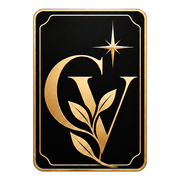
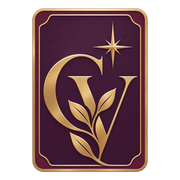
feat: atualizar marca visual do Cartada Viva

diff --git a/frontend/src/components/consultoria/ConsultoriaPages.tsx b/frontend/src/components/consultoria/ConsultoriaPages.tsx
@@ -30,7 +30,7 @@ export function ConsultoriaHome({ routes = previewRoutes }: { routes?: Consultor
       <SectionHeading eyebrow="Acompanhamento e prática" title="Duas experiências. Um caminho conectado.">A mentoria é a proposta principal. O game faz parte dessa experiência e leva a prática de hábitos para o cotidiano.</SectionHeading>
       <div className={styles.offerGrid}>
         <article className={styles.mentorshipOffer}><span className={styles.eyebrow}>A oferta principal</span><h3>A Última Cartada<span>Mentoria</span></h3><p>Um espaço de acompanhamento com Magaly Abreu para ampliar a consciência sobre suas escolhas e trabalhar a construção de hábitos.</p><p className={styles.offerNote}>Inclui a experiência do Game Cartada Viva.</p><ActionLink href={routes.mentorship}>Conhecer a mentoria</ActionLink></article>
-        <article className={styles.gameOffer}><div className={styles.gameMark}><Image src="/cartada-viva-mark.png" alt="Símbolo original do Cartada Viva" width={100} height={100} /></div><span className={styles.eyebrow}>Incluído na mentoria</span><h3>Cartada Viva<span>Game</span></h3><p>Cartadas, pequenas ações e registros para perceber o próprio percurso na prática diária de hábitos.</p><Link className={styles.textLink} href={routes.game}>Quero conhecer o game <ArrowRight size={18} aria-hidden="true" /></Link></article>
+        <article className={styles.gameOffer}><div className={styles.gameMark}><Image src="/cartada-viva-mark-brand.png" alt="Símbolo do Cartada Viva na paleta atual" width={100} height={100} /></div><span className={styles.eyebrow}>Incluído na mentoria</span><h3>Cartada Viva<span>Game</span></h3><p>Cartadas, pequenas ações e registros para perceber o próprio percurso na prática diária de hábitos.</p><Link className={styles.textLink} href={routes.game}>Quero conhecer o game <ArrowRight size={18} aria-hidden="true" /></Link></article>
       </div>
     </section>
     <section className={styles.quote}><p>Uma interrupção não define todo o seu percurso.</p><blockquote>{consultoria.symbolicPhrase}</blockquote><span>Magaly Abreu</span></section>
@@ -55,7 +55,7 @@ export function ConsultoriaMentorship({ routes = previewRoutes }: { routes?: Con
 
 export function ConsultoriaGame({ routes = previewRoutes }: { routes?: ConsultoriaRoutes } = {}) {
   return <>
-    <section className={`${styles.hero} ${styles.gameHero}`}><div className={styles.heroCopy}><p className={styles.eyebrow}>Cartada Viva — Game</p><h1>Uma cartada.<br />Uma prática.<br /><em>O seu percurso.</em></h1><p className={styles.heroDescription}>Um game educativo de hábitos que convida a levar consciência, pequenas ações e aprendizado para a vida real.</p><div className={styles.actions}><ActionLink href="#como-funciona">Quero conhecer o game</ActionLink><Link className={styles.textLink} href="/login">Já participo: entrar na minha área <MoveUpRight size={18} aria-hidden="true" /></Link></div><p className={styles.heroFootnote}>Uma experiência incluída na Mentoria A Última Cartada.</p></div><div className={styles.gameVisual}><Image className={styles.gameOriginalMark} src="/cartada-viva-mark.png" alt="Símbolo original do Game Cartada Viva, preservado em preto e dourado" width={245} height={245} priority /><p>Cartada Viva<span>Game</span></p><span className={styles.gameVisualCaption}>Consciência, prática e pertencimento.</span></div></section>
+    <section className={`${styles.hero} ${styles.gameHero}`}><div className={styles.heroCopy}><p className={styles.eyebrow}>Cartada Viva — Game</p><h1>Uma cartada.<br />Uma prática.<br /><em>O seu percurso.</em></h1><p className={styles.heroDescription}>Um game educativo de hábitos que convida a levar consciência, pequenas ações e aprendizado para a vida real.</p><div className={styles.actions}><ActionLink href="#como-funciona">Quero conhecer o game</ActionLink><Link className={styles.textLink} href="/login">Já participo: entrar na minha área <MoveUpRight size={18} aria-hidden="true" /></Link></div><p className={styles.heroFootnote}>Uma experiência incluída na Mentoria A Última Cartada.</p></div><div className={styles.gameVisual}><Image className={styles.gameOriginalMark} src="/cartada-viva-mark-brand.png" alt="Símbolo do Game Cartada Viva na paleta vinho, ameixa e dourado" width={245} height={245} priority /><p>Cartada Viva<span>Game</span></p><span className={styles.gameVisualCaption}>Consciência, prática e pertencimento.</span></div></section>
     <section className={styles.section} id="como-funciona"><SectionHeading eyebrow="O game na prática" title="Da intenção a uma ação possível.">Na jornada diária, a proposta do dia convida você a experimentar e registrar o próprio caminho. O percurso disponível depende da jornada vinculada ao seu grupo.</SectionHeading><ol className={styles.processList}><li><span>01</span><h3>Conheça a cartada</h3><p>Veja a proposta liberada para o dia e sua conexão com os pilares de hábitos.</p></li><li><span>02</span><h3>Experimente e registre</h3><p>Registre uma intenção ou a experiência vivida, com os recursos disponíveis na sua jornada.</p></li><li><span>03</span><h3>Perceba o percurso</h3><p>Consulte o histórico e o progresso por pilar para observar sua participação ao longo da jornada.</p></li></ol></section>
     <section className={`${styles.section} ${styles.showcase}`}><div><p className={styles.eyebrow}>Um olhar para o próprio progresso</p><h2>Seu dia, sua prática.<br />Um histórico para acompanhar.</h2><p>A área da participante reúne a cartada diária, o espaço para intenção e evidência e os registros do caminho percorrido.</p><p>Na jornada diária, os registros pessoais são privados e têm acesso autorizado. A convivência na comunidade acontece em um espaço próprio.</p></div><figure><Image src="/consultoria/player-journey.svg" alt="Prévia ilustrativa da área da participante, com cartada diária, intenção, evidência e progresso por pilar" width={1280} height={920} sizes="(max-width: 980px) calc(100vw - 32px), (max-width: 1296px) 60vw, 700px" /><figcaption>Prévia ilustrativa do sistema existente, sem dados de participantes. A aparência final depende da homologação visual.</figcaption><a className={styles.textLink} href="/consultoria/player-journey.svg" target="_blank" rel="noopener noreferrer">Ampliar ilustração (nova aba) <MoveUpRight size={18} aria-hidden="true" /></a></figure></section>
     <section className={styles.section}><SectionHeading eyebrow="A experiência do seu grupo" title="Conheça o percurso antes de começar.">Na experiência por rodadas, você escolhe uma carta disponível e envia a evidência no prazo informado. Na jornada diária, acompanha a proposta liberada para o dia, a intenção e os registros. Confirme com Magaly quais percursos e condições fazem parte da sua participação.</SectionHeading></section>

diff --git a/frontend/src/components/consultoria/StyleGuide.tsx b/frontend/src/components/consultoria/StyleGuide.tsx
@@ -61,9 +61,9 @@ export function StyleGuide() {
       <p className={guide.note}>Esta prova abre um arquivo estático para revisar texto e apresentação. Não desliga sua internet e não comprova instalação, atualização do service worker ou funcionamento em aparelho real.</p>
     </section>
     <section className={styles.section} id="marcas">
-      <SectionHeading eyebrow="Preservação dos originais" title="Aplicar com cuidado. Preservar o desenho.">O símbolo existente do game é apresentado sem recoloração, recorte ou efeitos. Estas são provas de composição para revisão, sem criar uma nova versão da logo.</SectionHeading>
-      <div className={guide.markExamples}><figure><div><Image src="/cartada-viva-mark.png" alt="Símbolo original do Cartada Viva sobre fundo marfim" width={200} height={200} /></div><figcaption>Aplicação do símbolo existente em fundo claro.</figcaption></figure><figure><div><Image src="/cartada-viva-mark.png" alt="Símbolo original do Cartada Viva sobre fundo ameixa" width={200} height={200} /></div><figcaption>Aplicação do mesmo arquivo em fundo escuro.</figcaption></figure></div>
-      <aside className={guide.note}>Os originais do monograma MA, da assinatura e da marca da mentoria ainda precisam ser incorporados ao repositório. Não foram redesenhados. Versões com subtítulo antigo dependem de editável e aprovação; não devem ser apagadas ou recortadas de forma improvisada.</aside>
+      <SectionHeading eyebrow="Marca do game" title="Uma identidade atual para o Cartada Viva.">O símbolo do game recebeu uma versão em vinho, ameixa e dourado fosco, preservando a composição de carta, monograma, folhas e estrela.</SectionHeading>
+      <div className={guide.markExamples}><figure><div><Image src="/cartada-viva-mark-brand.png" alt="Símbolo do Cartada Viva na paleta atual sobre fundo marfim" width={200} height={200} /></div><figcaption>Aplicação da marca atual em fundo claro.</figcaption></figure><figure><div><Image src="/cartada-viva-mark-brand.png" alt="Símbolo do Cartada Viva na paleta atual sobre fundo ameixa" width={200} height={200} /></div><figcaption>Aplicação da marca atual em fundo escuro.</figcaption></figure></div>
+      <aside className={guide.note}>Os originais do monograma MA, da assinatura e da marca da mentoria ainda precisam ser incorporados ao repositório. A atualização aprovada neste recorte se limita à marca do Game Cartada Viva.</aside>
     </section>
     <section className={styles.section} id="criativos">
       <SectionHeading eyebrow="Fundos e composições de referência" title="Site e redes sociais no mesmo padrão.">Propostas de fundo para Story e compartilhamento. As frases aprovadas estão compostas como texto editorial, sem simular uma assinatura ou adicionar promessas.</SectionHeading>

diff --git a/frontend/src/components/layout/PlayerLayout.tsx b/frontend/src/components/layout/PlayerLayout.tsx
@@ -124,7 +124,7 @@ export function PlayerLayout({ children }: PlayerLayoutProps) {
         <div className={styles.brand} data-brand-part="brand">
           {isGameArea && <Image
             className={styles.brandLogo}
-            src="/cartada-viva-mark.png"
+            src="/cartada-viva-mark-brand.png"
             alt=""
             width={58}
             height={58}

diff --git a/frontend/src/components/layout/AdminLayout.tsx b/frontend/src/components/layout/AdminLayout.tsx
@@ -219,7 +219,7 @@ export function AdminLayout({ children }: AdminLayoutProps) {
         <div className={styles.brand}>
           <Image
             className={styles.brandLogo}
-            src="/cartada-viva-mark.png"
+            src="/cartada-viva-mark-brand.png"
             alt="Cartada Viva"
             width={220}
             height={220}

diff --git a/docs/consultoria/ATIVOS_VISUAIS_PENDENTES.md b/docs/consultoria/ATIVOS_VISUAIS_PENDENTES.md
@@ -9,7 +9,8 @@ As referências recebidas da consultoria para monograma MA e assinatura não for
 | Grupo | Arquivo local | Uso atual observado | Situação documental |
 | --- | --- | --- | --- |
 | Fotografias profissionais | `frontend/public/landing/professional/acauamedia-114.jpg`, `acauamedia-117.jpg`, `acauamedia-126.jpg`, `acauamedia-130.jpg`, `acauamedia-131.jpg`, `acauamedia-135.jpg` | Home, Mentoria, Herbalife e proposta ativada | Identidade da retratada, autoria/origem, licença e autorização de divulgação: **a confirmar** |
-| Marca do game existente | `frontend/public/cartada-viva-mark.png` | Proposta ativada e guia visual | Arquivo preservado; autoria, versão aprovada, variantes permitidas e escopo de uso: **a confirmar** |
+| Marca do game original | `frontend/public/cartada-viva-mark.png` | Preservada como referência | Arquivo preservado; autoria e versão de origem: **a confirmar** |
+| Marca atual do game | `frontend/public/cartada-viva-mark-brand.png` | Home, página do Game, áreas de participante/admin, guia visual e ícones | Variante vinho/ameixa/dourado autorizada pelo responsável em 23/11/2026; aplica-se somente ao Cartada Viva |
 | Ilustração de percurso atual | `frontend/public/consultoria/player-journey.svg` | Proposta ativada do game | Origem, autoria e aprovação de uso: **a confirmar** |
 | Ilustração de percurso legada | `frontend/public/landing/ultima-cartada/player-journey.svg` | Preservada como histórico; não é mais renderizada pela Mentoria legada | Contém “Jogo 1/2/3” e “21 dias de prática”; origem, editável e adequação editorial: **a confirmar** |
 | Cartas ilustradas legadas | `frontend/public/landing/ultima-cartada/carta-pausa.png`, `carta-comunidade.png` | Mentoria legada | Origem, autoria, subtítulos incorporados e permissão de uso: **a confirmar** |

diff --git a/docs/PROJECT_AUDIT.md b/docs/PROJECT_AUDIT.md
@@ -1388,6 +1388,10 @@ O backend falhava antes de iniciar porque o processo herdava `DEBUG=release`, qu
 
 Validações executadas: `DEBUG=release python manage.py check`, `DEBUG=release python manage.py makemigrations --check --dry-run` e `git diff --check`. O check passou; a conferência de migrations não encontrou alterações, mas reportou que a senha local de `cartada_viva_user` não autentica no PostgreSQL. A URL local do frontend foi alinhada a `http://127.0.0.1:8000/api/v1`; ela não é versionada. Não houve migration aplicada, servidor público, alteração de dados, dependências, commit ou push.
 
+## Identidade do Game Cartada Viva — 23/11/2026
+
+Por autorização expressa do responsável, a marca do Game Cartada Viva recebeu uma variante própria em vinho, ameixa e dourado fosco, preservando a composição reconhecível de carta, monograma, folhas e estrela. O original `cartada-viva-mark.png` foi preservado; a variante `cartada-viva-mark-brand.png` passou a ser usada na apresentação pública do game, nos cabeçalhos de participante e administração, no guia visual e nos ícones do aplicativo. A alteração não se estende às marcas da mentoria, do monograma MA ou da assinatura de Magaly.
+
 ## Consultoria — evolução futura excluída desta liberação — 22/11/2026
 
 CONS-14.1 a CONS-14.5 foram encerrados como fora do escopo da liberação atual. Não houve decisão para demonstração, Game independente, preço, cadastro, checkout, convite, automação ou métricas; portanto nenhum desses recursos foi iniciado. Uma decisão futura deve abrir recorte próprio, com regras, privacidade, segurança, testes e autorização de publicação específicos.

diff --git a/DESIGN.md b/DESIGN.md
@@ -42,7 +42,7 @@ Essas observações não certificam transparência, resolução final ou arquivo
 - Preservar integralmente a assinatura e o monograma circular MA; não trocar a assinatura por texto em fonte cursiva, reconstruir as letras ou gerar um símbolo semelhante.
 - Mentoria: preservar carta com monograma, estrela e elementos vegetais. Game: preservar carta com monograma e elementos de crescimento. Conferir os originais, sem inferir o desenho a partir do nome.
 - Não distorcer, inclinar, adicionar sombras, brilho, contorno, textura ou filtros de recoloração às logos. Não recortar o círculo nem os traços da assinatura.
-- Manter cores originais preto/branco/dourado enquanto não houver versões adaptadas aprovadas. Cores novas pertencem ao layout e não autorizam recolorir os arquivos.
+- Manter cores originais preto/branco/dourado enquanto não houver versões adaptadas aprovadas. Exceção autorizada em 23/11/2026: o símbolo do Game Cartada Viva possui a variante `cartada-viva-mark-brand.png`, em vinho, ameixa e dourado fosco; usá-la somente nas superfícies do game. As demais marcas continuam preservadas.
 - Preferir originais vetoriais ou PNG transparente em alta resolução. Não simular transparência usando recorte que destrua o desenho ou misturando modos de composição sem revisão.
 - Usar aplicação clara sobre superfície escura e escura sobre clara somente quando a variante original existir. Referências com fundo opaco precisam de composição que respeite esse fundo.
 - Se houver subtítulo antigo incorporado à imagem, obter editável ou preparar uma proposta corrigida para aprovação; não apagar trechos improvisadamente.
